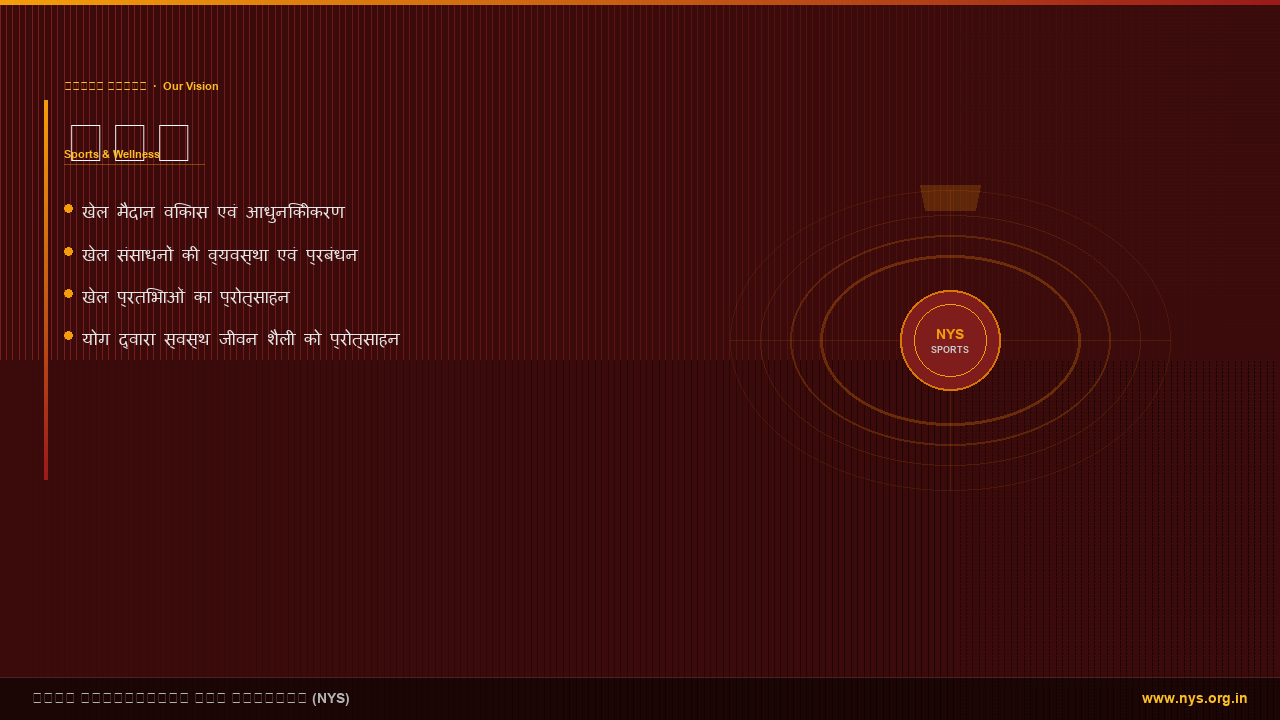
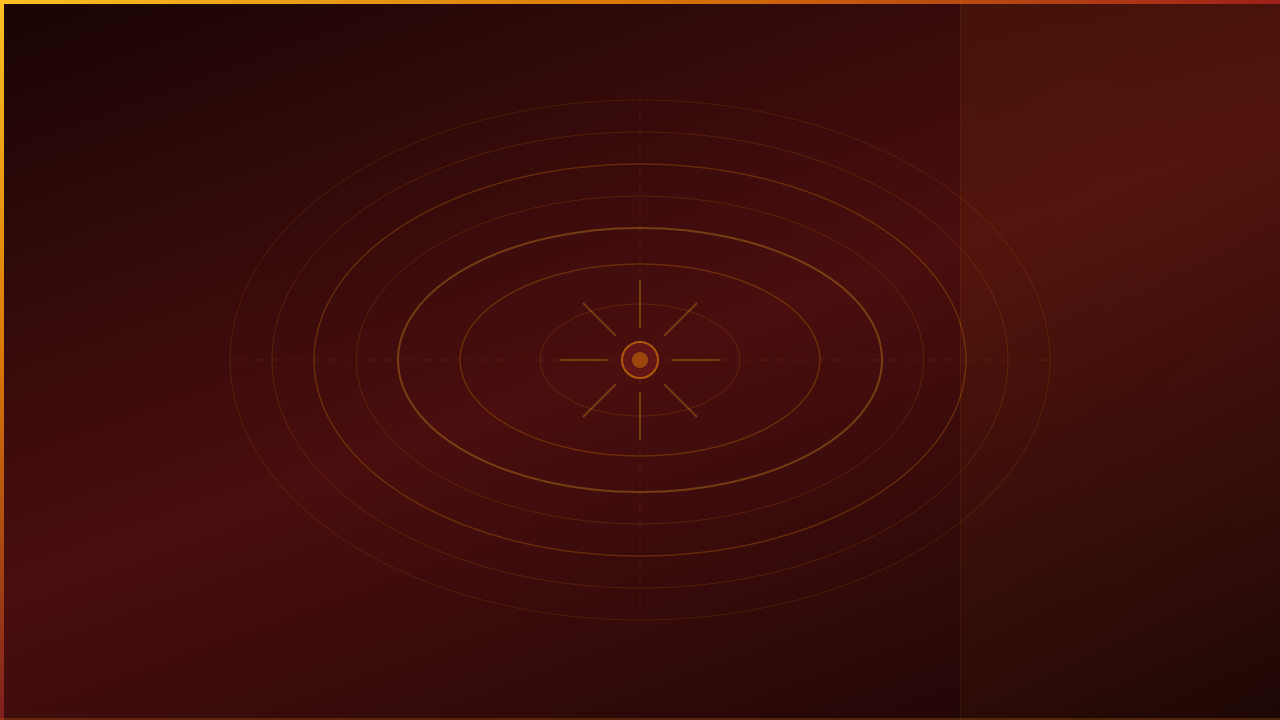
Fix hero slides: pure visual backgrounds + lighter overlay
- Regenerate all 5 slides as pure geometric/gradient backgrounds (no text)
  using Chrome headless for crisp rendering — no Pillow Hindi font issues
  1. Maroon radial + gold mandala rings
  2. Amber diagonal diamond pattern
  3. Dark maroon athletic oval tracks
  4. Split green+maroon with tree/circuit geometry
  5. Deep saffron sunburst with concentric rings
- HeroSlider: overlay rgba(80,10,10,0.72) → rgba(50,8,8,0.52)
  so background patterns are visible behind the text

diff --git a/src/components/public/HeroSlider.tsx b/src/components/public/HeroSlider.tsx
@@ -128,10 +128,10 @@ export function HeroSlider({
             className="h-full w-full object-cover"
             draggable={false}
           />
-          {/* Dark overlay */}
+          {/* Dark overlay — lighter so background patterns show through */}
           <div
             className="absolute inset-0"
-            style={{ background: "rgba(80,10,10,0.72)" }}
+            style={{ background: "rgba(50,8,8,0.52)" }}
           />
         </div>
       ))}
